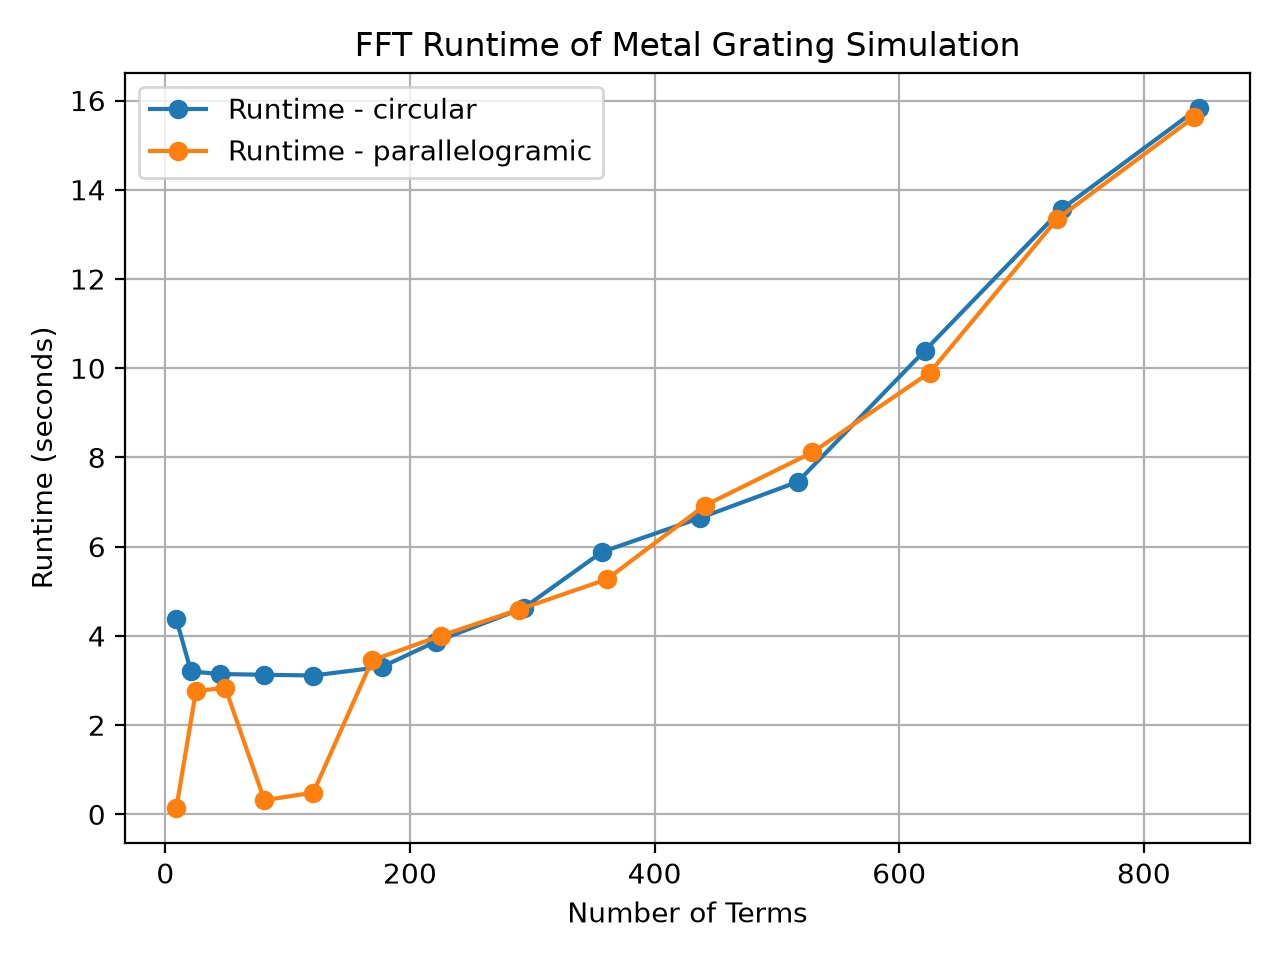
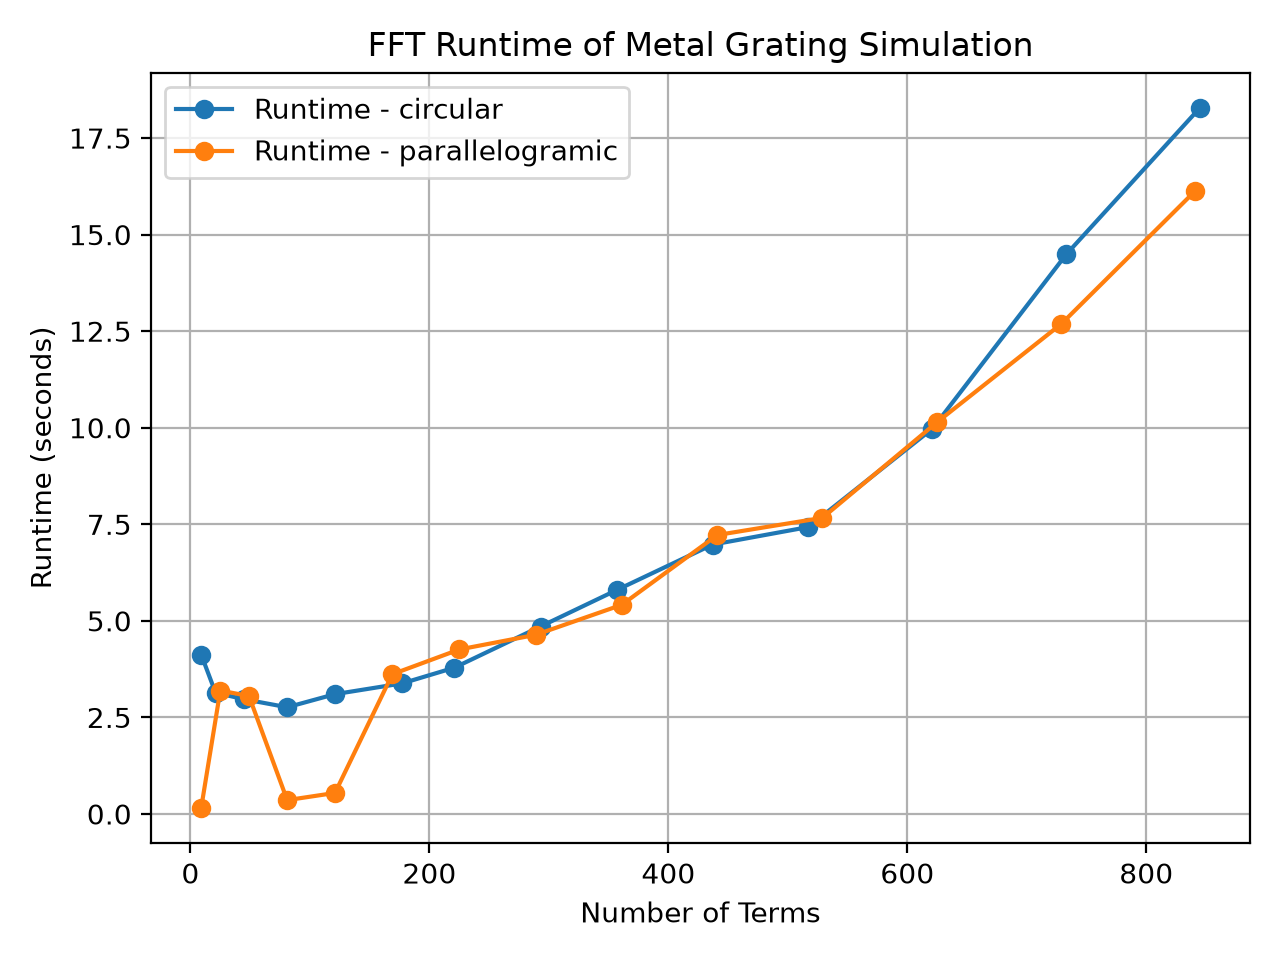
Metal-grating wavelength sweep comparison between FMMax and S4 TE reflectance FFT

diff --git a/fmmax/metal_grating_benchmark.py b/fmmax/metal_grating_benchmark.py
@@ -24,6 +24,8 @@ Copyright (c) Meta Platforms, Inc. and affiliates.
 Modified by Sneha Balamurali for benchmarking different RCWA solvers.
 """
 
+# Parses the command-line choice between convergence and wavelength studies
+import argparse
 # For writing benchmark results in a tabular format
 import csv
 # Provides a high-resolution wall-clock timer for runtime measurements
@@ -157,6 +159,7 @@ def simulate_grating(
     r_tm = s_matrix.s21[expansion.num_terms, expansion.num_terms]
     return expansion.num_terms, complex(r_te), complex(r_tm)
 
+####################################################################
 
 def convergence_study(
     approximate_num_terms: Tuple[int, ...] = NUM_TERMS_SWEEP,
@@ -234,6 +237,96 @@ def convergence_study(
     print(f"\nSaved results to {output_path}")
     return tuple(results)
 
+#########################################################################
+
+def wavelength_sweep(
+    wavelengths_nm,
+    approximate_num_terms=841,
+    truncation=basis.Truncation.PARALLELOGRAMIC,
+    formulation=fmm.Formulation.FFT,
+):
+    """Compute a nondispersive TE spectrum using a fixed Fourier basis.
+
+    All permittivities are deliberately held constant as wavelength changes.
+    This tests numerical agreement between solvers; it is not a realistic
+    dispersive metal spectrum.
+    """
+
+    results = []
+
+    # These material values remain fixed throughout the wavelength sweep.
+    ambient_permittivity = 1.0 + 0.0j
+    planarization_permittivity = 2.25 + 0.0j
+    metal_permittivity = -7.632 + 0.731j
+
+    for wavelength_nm in wavelengths_nm:
+
+        start_time = time.perf_counter()
+
+        num_terms, r_te, _ = simulate_grating(
+            permittivity_ambient=ambient_permittivity,
+            permittivity_planarization=planarization_permittivity,
+            permittivity_substrate=metal_permittivity,
+            wavelength_nm=wavelength_nm,
+            approximate_num_terms=approximate_num_terms,
+            truncation=truncation,
+            formulation=formulation,
+        )
+
+        runtime_seconds = time.perf_counter() - start_time
+
+        results.append(
+            (
+                wavelength_nm,
+                num_terms,
+                formulation.value,
+                truncation.value,
+                metal_permittivity.real,
+                metal_permittivity.imag,
+                r_te.real,
+                r_te.imag,
+                abs(r_te) ** 2,
+                runtime_seconds,
+            )
+        )
+
+        print(
+            f"wavelength={wavelength_nm} nm: "
+            f"R_te={abs(r_te) ** 2:.6f}, runtime={runtime_seconds:.3f}s"
+        )
+
+    results_directory = Path(__file__).resolve().parent / "results"
+    results_directory.mkdir(parents=True, exist_ok=True)
+
+    output_path = results_directory / "metal_grating_spectrum.csv"
+
+    with output_path.open("w", newline="", encoding="utf-8") as file:
+
+        writer = csv.writer(file)
+
+        writer.writerow(
+            [
+                "wavelength_nm",
+                "num_terms",
+                "formulation",
+                "truncation",
+                "metal_permittivity_real",
+                "metal_permittivity_imag",
+                "r_te_real",
+                "r_te_imag",
+                "R_te",
+                "runtime_seconds",
+            ]
+        )
+
+        writer.writerows(results)
+
+    print(f"Saved spectrum to {output_path}")
+
+    return results
+
+##################################################################
+
 def plot_results(results):
     """Plots convergence and runtime for the FFT formulation."""
     # Reflection Coefficient Plot
@@ -283,17 +376,24 @@ def plot_results(results):
     plt.tight_layout()
     plt.savefig("results/fft_runtime_plot.png", dpi=200)
     plt.close()
-
+    
+###############################################################
 
 if __name__ == "__main__":
-    if __name__ == "__main__":
-    print(
-        f"JAX x64 enabled: {jax.config.read('jax_enable_x64')}, "
-        f"backend: {jax.default_backend()}, "
-        f"JAX version: {jax.__version__}"
+    parser = argparse.ArgumentParser()
+
+    parser.add_argument(
+        "--study",
+        choices=["convergence", "wavelength"],
+        default="convergence",
     )
 
-    results = convergence_study(
-        fmm_formulations=(fmm.Formulation.FFT,)
-    )
-    plot_results(results)
+    study = parser.parse_args().study
+
+    if study == "wavelength":
+        wavelength_sweep(wavelengths_nm=range(400, 701, 5))
+    else:
+        results = convergence_study(
+            fmm_formulations=(fmm.Formulation.FFT,)
+        )
+        plot_results(results)

diff --git a/Comparison/compare_metal_grating_wavelength_sweep.py b/Comparison/compare_metal_grating_wavelength_sweep.py
@@ -1,0 +1,57 @@
+"""Compare FMMax and S4 TE wavelength sweeps."""
+
+from pathlib import Path
+
+import matplotlib.pyplot as plt
+import pandas as pd
+
+
+FMMAX_RESULTS = (
+    Path("../fmmax/results/metal_grating_spectrum.csv")
+)
+
+S4_RESULTS = (
+    Path("../s4/results/s4_metal_grating_spectrum.csv")
+)
+
+
+def main():
+
+    fmmax = pd.read_csv(FMMAX_RESULTS)
+    s4 = pd.read_csv(S4_RESULTS)
+
+    plt.figure(figsize=(8,5))
+
+    plt.plot(
+        fmmax["wavelength_nm"],
+        fmmax["R_te"],
+        marker="o",
+        label="FMMax",
+    )
+
+    plt.plot(
+        s4["wavelength_nm"],
+        s4["R_s"],
+        marker="x",
+        linestyle="--",
+        label="S4",
+    )
+
+    plt.xlabel("Wavelength (nm)")
+    plt.ylabel("TE Reflectance")
+    plt.title("Metal Grating Wavelength Sweep")
+    plt.grid(True)
+    plt.legend()
+    plt.tight_layout()
+
+    output = Path("results/compare_te_wavelength_sweep.png")
+    output.parent.mkdir(exist_ok=True)
+
+    plt.savefig(output, dpi=200)
+    plt.close()
+
+    print(f"Saved {output}")
+
+
+if __name__ == "__main__":
+    main()
